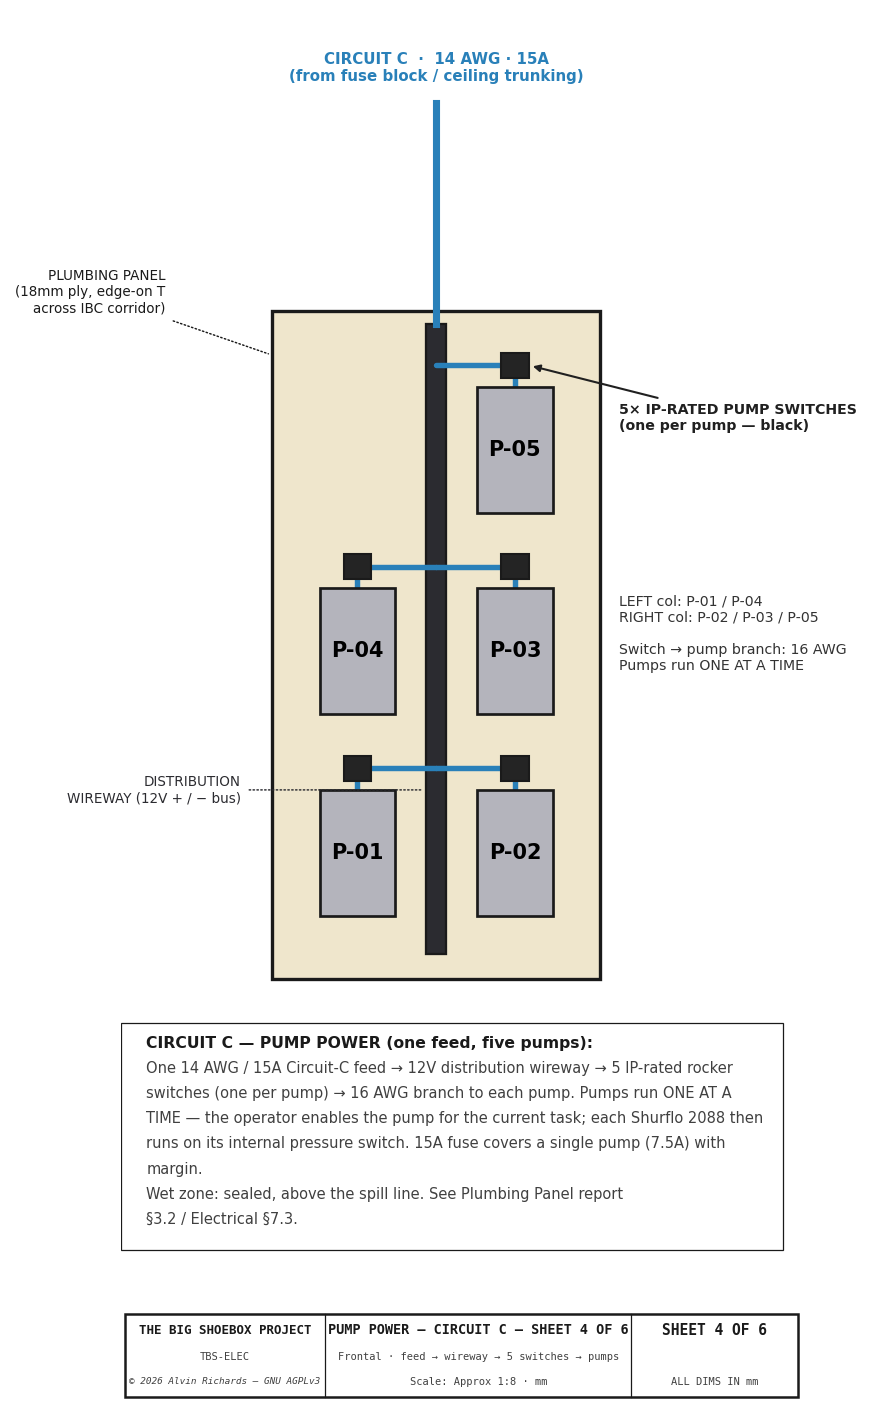
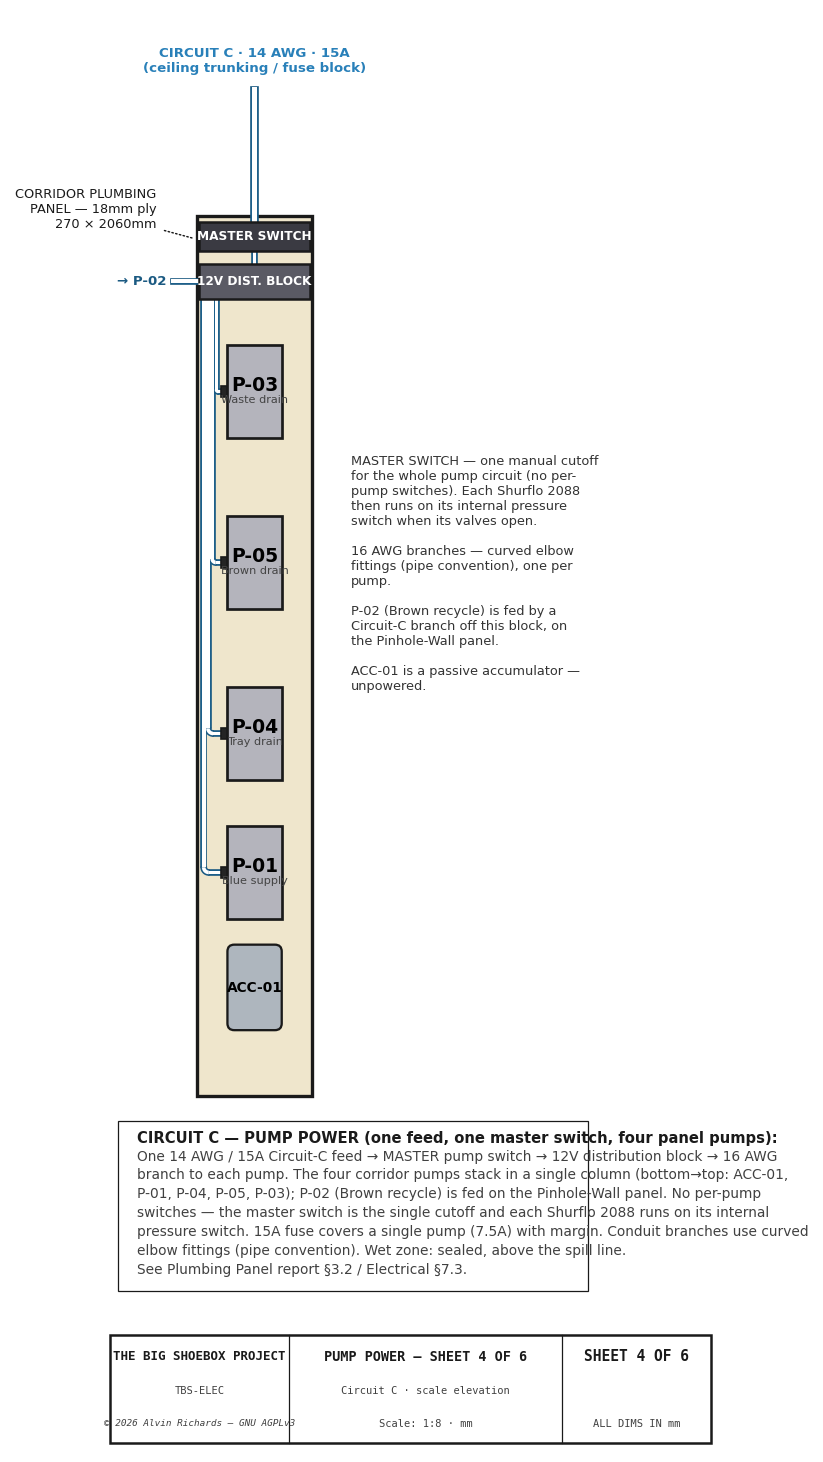
electrical-sheet4: redraw as scale engineering elevation (was stale schematic)
Alvin: sheet4 was an old semantic schematic (5-pump 2-column grid, per-pump switches,
hard-angle wiring, wrong proportions). Rebuilt to match the actual corridor panel:
- Scale elevation (270x2060 panel) with the single pump column ACC-01 + P-01/P-04/P-05/
  P-03 at their real Z (single-sourced from generate_panel_layout).
- ONE master switch + 12V distribution block (per-pump switches removed); each Shurflo
  runs on its internal pressure switch.
- 16 AWG branches drawn with draw_pipe_path curved elbow fittings (pipe convention),
  each in its own lane, no crossings, no hard corners.
- P-02 (Brown recycle, on the pinhole-wall panel) shown as an off-panel branch.
Report/parts/3D switch-removal cascade follows.

diff --git a/src/generators/generate_electrical_diagram.py b/src/generators/generate_electrical_diagram.py
@@ -30,7 +30,7 @@ from tbs_constants import (
 )
 from tbs_title_block import title_block
 from tbs_drawing import (draw_dim_h, draw_dim_v, leader, draw_notes,
-                         draw_rect, draw_circle, hatch_rect)
+                         draw_rect, draw_circle, hatch_rect, draw_pipe_path)
 
 # ── Palette ───────────────────────────────────────────────────────────────────
 C_OUT   = "#1A1A1A"
@@ -1412,92 +1412,108 @@ def draw_sheet3():
 # ─────────────────────────────────────────────────────────────────────────────
 
 def draw_sheet4():
-    """SHEET 4 — Plumbing-Panel Pump Power (Circuit C), frontal elevation.
+    """SHEET 4 — Corridor Plumbing-Panel Pump Power (Circuit C), scale elevation.
 
-    Flat 2D companion to the electrical 3D model's pump distribution (kept
-    consistent with the other electrical sheets): the Circuit-C feed → 12V
-    distribution wireway → 5 IP-rated switches → the 5 Shurflo pumps (P-01..P-05,
-    two columns), run one at a time.
+    Engineering elevation of the corridor plumbing panel (matches panel-layout.png):
+    the single vertical pump column (ACC-01 + P-01/P-04/P-05/P-03) drawn to scale,
+    powered from ONE master switch → 12V distribution block → curved-elbow branches
+    to each pump. No per-pump switches — each Shurflo runs on its internal pressure
+    switch; the master switch is the single manual cutoff. P-02 (Brown recycle) is on
+    the pinhole-wall panel, shown as an off-panel branch. Routing follows pipe
+    conventions (parallel-wall conduit + curved elbow fittings, never hard corners).
     """
     from tbs_constants import DIAGRAMS_DIR
+    import generate_panel_layout as pl
     R = mpatches.Rectangle
-    CC = "#2980B9"                                       # Circuit C blue
+    CC, CDK = "#2980B9", "#1B5A82"                       # Circuit-C blue + darker edge
 
-    fig, ax = plt.subplots(figsize=(8.6, 12))
+    fig, ax = plt.subplots(figsize=(7.6, 12.4))
     ax.set_aspect("equal")
     ax.axis("off")
 
-    # Frontal elevation: horizontal = panel width (Yd), vertical = height (Z).
-    PW = 440                                             # panel width (schematic)
-    lcol, rcol, wy = 95, 345, 220                        # column centres + wireway
-    rb, rm, rt = 1100, 1420, 1740                        # pump row bottoms
-    ph, pw = 200, 120                                    # pump body H × W
-    z_lo, z_hi = 1000, 2060
+    PW, PH = pl.PANEL_W, pl.PANEL_H                       # 270 × 2060 (to scale)
+    pcx, pw, ph = pl.PUMP_COL_C, pl.PUMP_W, pl.PUMP_H     # column center 135, body 127 × 218
+    p_left = pcx - pw / 2                                 # 71.5 — pump left edge
 
-    # ── Plumbing panel ──
-    ax.add_patch(R((-40, z_lo), PW + 80, z_hi - z_lo, fc="#EFE6CC", ec=C_OUT, lw=1.6,
-                   zorder=2))
-    leader(ax, -40, z_hi - 70, -210, z_hi + 30,
-           "PLUMBING PANEL\n(18mm ply, edge-on T\nacross IBC corridor)",
-           fs=6.5, color=C_OUT, ha="right")
+    # ── Panel (to scale) ──
+    ax.add_patch(R((0, 0), PW, PH, fc="#EFE6CC", ec=C_OUT, lw=1.6, zorder=2))
+    leader(ax, 0, PH - 55, -95, PH + 15,
+           "CORRIDOR PLUMBING\nPANEL — 18mm ply\n270 × 2060mm", fs=6.2, color=C_OUT, ha="right")
 
-    # ── Distribution wireway (vertical, between the columns) ──
-    ax.add_patch(R((wy - 16, rb - 60), 32, (z_hi - 20) - (rb - 60), fc="#2B2B30",
-                   ec=C_OUT, lw=1.1, zorder=4))
-    leader(ax, wy - 16, 1300, -90, 1300, "DISTRIBUTION\nWIREWAY (12V + / − bus)",
-           fs=6.5, color="#2B2B30", ha="right")
+    # ── ACC-01 (passive accumulator — unpowered, drawn for context) ──
+    ax.add_patch(mpatches.FancyBboxPatch((pl.ACC_YD - pl.ACC_OD / 2, pl.ACC_Z), pl.ACC_OD, pl.ACC_LEN,
+                 boxstyle="round,pad=0,rounding_size=16", fc="#AEB6BE", ec=C_OUT, lw=1.1, zorder=6))
+    ax.text(pl.ACC_YD, pl.ACC_Z + pl.ACC_LEN / 2, "ACC-01", ha="center", va="center",
+            fontsize=6.6, fontweight="bold", zorder=8)
 
-    # ── Pumps + switches + Circuit-C branches ──
-    pumps = [("P-01", lcol, rb), ("P-04", lcol, rm),
-             ("P-02", rcol, rb), ("P-03", rcol, rm), ("P-05", rcol, rt)]
-    for nm, xc, yb in pumps:
-        ax.add_patch(R((xc - pw / 2, yb), pw, ph, fc="#B4B4BC", ec=C_OUT, lw=1.3,
-                       zorder=6))
-        ax.text(xc, yb + ph / 2, nm, ha="center", va="center", fontsize=10,
-                fontweight="bold", zorder=8)
-        # switch on the panel face, just above the pump
-        sy = yb + ph + 34
-        ax.add_patch(R((xc - 22, sy - 20), 44, 40, fc="#242424", ec=C_OUT, lw=1.0,
-                       zorder=7))
-        # branch: wireway → switch (horizontal at switch height), then down to pump
-        ax.plot([wy, xc], [sy, sy], color=CC, lw=2.6, zorder=5, solid_capstyle="round")
-        ax.plot([xc, xc], [sy - 20, yb + ph], color=CC, lw=2.6, zorder=5)
+    # ── Pumps (single vertical column, real Z) + electrical terminals ──
+    pumps = [("P-01", pl.P01_Z, "Blue supply"), ("P-04", pl.P04_Z, "Tray drain"),
+             ("P-05", pl.P05_Z, "Brown drain"), ("P-03", pl.P03_Z, "Waste drain")]
+    term = {}
+    for nm, zb, sub in pumps:
+        ax.add_patch(R((p_left, zb), pw, ph, fc="#B4B4BC", ec=C_OUT, lw=1.3, zorder=6))
+        ax.text(pcx, zb + ph / 2 + 14, nm, ha="center", va="center", fontsize=9, fontweight="bold", zorder=8)
+        ax.text(pcx, zb + ph / 2 - 20, sub, ha="center", va="center", fontsize=5.4, color="#444", zorder=8)
+        tz = zb + ph / 2
+        ax.add_patch(R((p_left - 15, tz - 13), 15, 26, fc="#242424", ec=C_OUT, lw=0.8, zorder=7))
+        term[nm] = (p_left - 15, tz)                      # terminal left face (branch lands here)
 
-    # ── Circuit-C feed from the ceiling trunking into the wireway top ──
-    ax.plot([wy, wy], [z_hi + 330, z_hi - 20], color=CC, lw=3.4, zorder=9)
-    ax.text(wy, z_hi + 360, "CIRCUIT C  ·  14 AWG · 15A\n(from fuse block / ceiling trunking)",
-            ha="center", va="bottom", fontsize=7.2, color=CC, fontweight="bold")
+    # ── Master switch + 12V distribution block: full-width header bars above P-03 ──
+    mcx = PW / 2
+    ax.add_patch(R((6, 1978), PW - 12, 68, fc="#3A3A42", ec=C_OUT, lw=1.2, zorder=7))
+    ax.text(mcx, 2012, "MASTER SWITCH", ha="center", va="center", fontsize=5.8,
+            color="white", fontweight="bold", zorder=9)
+    ax.add_patch(R((6, 1866), PW - 12, 82, fc="#5A5A64", ec=C_OUT, lw=1.2, zorder=7))
+    ax.text(mcx, 1907, "12V DIST. BLOCK", ha="center", va="center", fontsize=5.8,
+            color="white", fontweight="bold", zorder=9)
+    draw_pipe_path(ax, [mcx, mcx], [1978, 1948], 12, 2.0, fc=CC, ec=CDK, zorder=5)   # switch → block
+
+    # ── Circuit-C feed from ceiling trunking into the master switch ──
+    draw_pipe_path(ax, [mcx, mcx], [PH + 300, 2046], 17, 2.5, fc=CC, ec=CDK, zorder=5)
+    ax.text(mcx, PH + 330, "CIRCUIT C · 14 AWG · 15A\n(ceiling trunking / fuse block)",
+            ha="center", va="bottom", fontsize=6.4, color=CC, fontweight="bold")
+
+    # ── Curved-elbow branch conduits: block → each pump terminal. Own lane each, longest
+    #    drop = outermost, so runs never cross (each stops at its pump). ──
+    lanes = {"P-01": 16, "P-04": 26, "P-05": 36, "P-03": 46}
+    for nm, zb, sub in pumps:
+        ln = lanes[nm]
+        tx, tz = term[nm]
+        draw_pipe_path(ax, [ln, ln, tx], [1866, tz, tz], 12, 1.8, fc=CC, ec=CDK, zorder=4)
+
+    # ── P-02 branch leaving the panel toward the pinhole-wall panel (short tag; detail at right) ──
+    draw_pipe_path(ax, [12, -60], [1907, 1907], 12, 1.8, fc=CC, ec=CDK, zorder=4)
+    ax.text(-70, 1907, "→ P-02", ha="right", va="center", fontsize=6.4, color=CDK, fontweight="bold")
 
     # ── Right-side callouts ──
-    ax.annotate("5× IP-RATED PUMP SWITCHES\n(one per pump — black)",
-                xy=(rcol + 22, rt + ph + 34), xytext=(PW + 70, rt + 150),
-                fontsize=6.8, ha="left", va="center", color="#202020",
-                fontweight="bold", arrowprops=dict(arrowstyle="-|>", color="#202020", lw=1.0))
-    ax.text(PW + 70, rm + ph - 10,
-            "LEFT col: P-01 / P-04\nRIGHT col: P-02 / P-03 / P-05\n\n"
-            "Switch → pump branch: 16 AWG\nPumps run ONE AT A TIME",
-            fontsize=6.8, ha="left", va="top", color="#333")
+    ax.text(PW + 90, 1500,
+            "MASTER SWITCH — one manual cutoff\nfor the whole pump circuit (no per-\npump switches). Each Shurflo 2088\n"
+            "then runs on its internal pressure\nswitch when its valves open.\n\n"
+            "16 AWG branches — curved elbow\nfittings (pipe convention), one per\npump.\n\n"
+            "P-02 (Brown recycle) is fed by a\nCircuit-C branch off this block, on\nthe Pinhole-Wall panel.\n\n"
+            "ACC-01 is a passive accumulator —\nunpowered.",
+            fontsize=6.2, ha="left", va="top", color="#333")
 
-    ax.set_xlim(-280, PW + 360)
-    ax.set_ylim(330, z_hi + 470)
+    ax.set_xlim(-210, PW + 940)
+    ax.set_ylim(-820, PH + 470)
 
-    # ── Notes + title block (in the clear band below the panel, above the block) ──
+    # ── Notes + title block (clear band below the panel) ──
     draw_notes(ax, [
-        "CIRCUIT C — PUMP POWER (one feed, five pumps):",
-        "One 14 AWG / 15A Circuit-C feed → 12V distribution wireway → 5 IP-rated rocker",
-        "switches (one per pump) → 16 AWG branch to each pump. Pumps run ONE AT A",
-        "TIME — the operator enables the pump for the current task; each Shurflo 2088 then",
-        "runs on its internal pressure switch. 15A fuse covers a single pump (7.5A) with",
-        "margin.",
-        "Wet zone: sealed, above the spill line. See Plumbing Panel report",
-        "§3.2 / Electrical §7.3.",
-    ], -240, 910, spacing=40, fs=7.0, width=970)
+        "CIRCUIT C — PUMP POWER (one feed, one master switch, four panel pumps):",
+        "One 14 AWG / 15A Circuit-C feed → MASTER pump switch → 12V distribution block → 16 AWG",
+        "branch to each pump. The four corridor pumps stack in a single column (bottom→top: ACC-01,",
+        "P-01, P-04, P-05, P-03); P-02 (Brown recycle) is fed on the Pinhole-Wall panel. No per-pump",
+        "switches — the master switch is the single cutoff and each Shurflo 2088 runs on its internal",
+        "pressure switch. 15A fuse covers a single pump (7.5A) with margin. Conduit branches use curved",
+        "elbow fittings (pipe convention). Wet zone: sealed, above the spill line.",
+        "See Plumbing Panel report §3.2 / Electrical §7.3.",
+    ], -140, -80, spacing=44, fs=6.6, width=1010)
 
     title_block(ax, "SHEET 4 OF 6",
-                drawing_title="PUMP POWER — CIRCUIT C",
-                subtitle="Frontal · feed → wireway → 5 switches → pumps",
-                scale_note="Approx 1:8 · mm",
-                doc_id="TBS-ELEC", height=0.06, portrait=True)
+                drawing_title="PUMP POWER",
+                subtitle="Circuit C · scale elevation",
+                scale_note="1:8 · mm",
+                doc_id="TBS-ELEC", height=0.075, portrait=True)
 
     plt.savefig(f"{DIAGRAMS_DIR}/electrical-sheet4.png", dpi=150, bbox_inches="tight",
                 pad_inches=0.10, facecolor="white")
